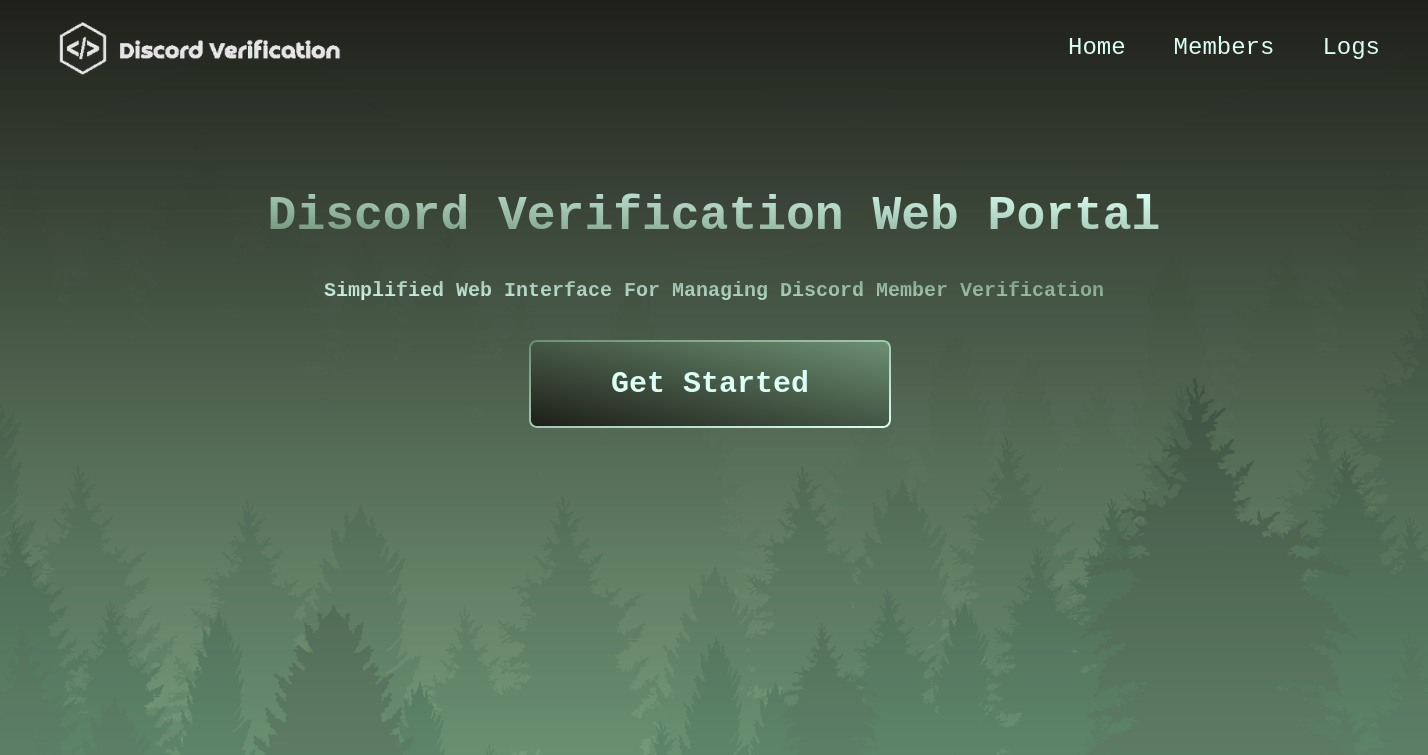
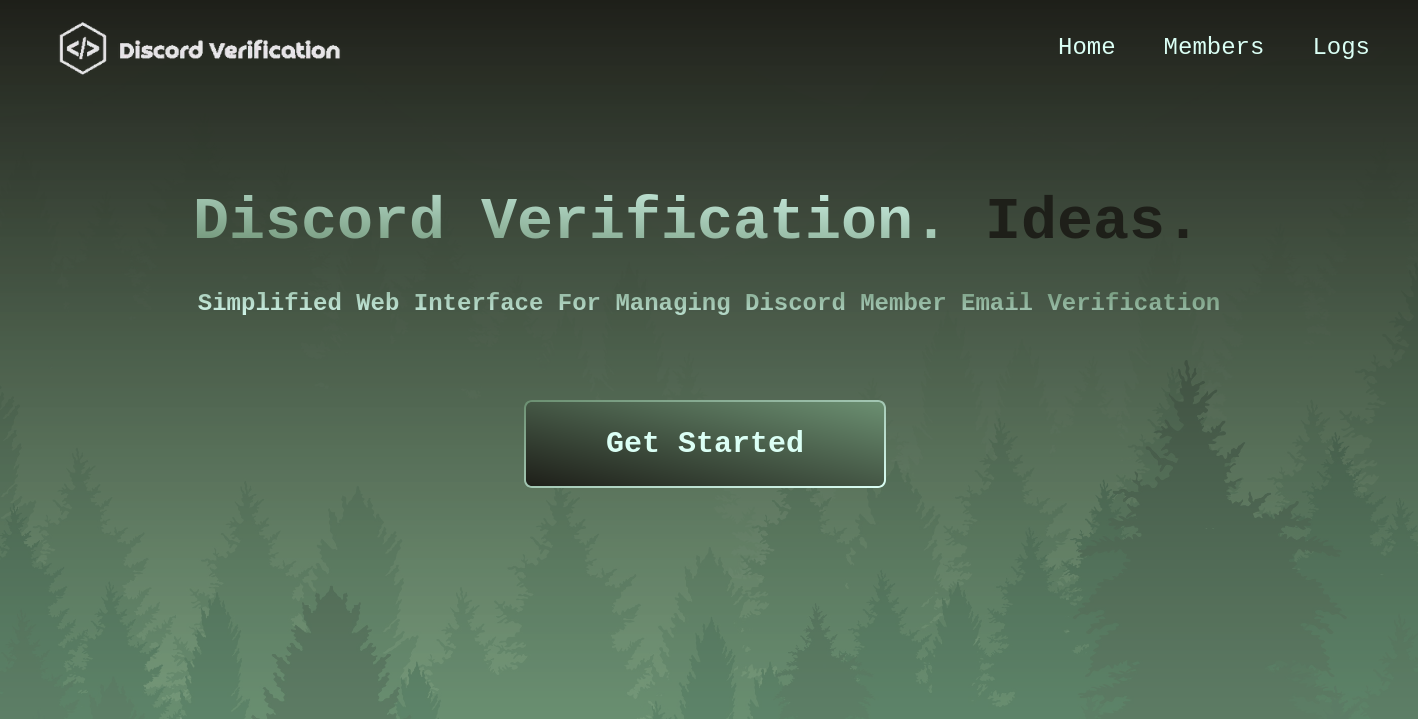
Resolved issue #13:  - Validated user signature input with regex  - Updated modal builder  - Updated verification.png

diff --git a/src/backend/listener.js b/src/backend/listener.js
@@ -113,16 +113,17 @@ client.on(Events.InteractionCreate, async (interaction) => {
             const emailInput = interaction.fields.getTextInputValue('email-input').trim();
             const signatureInput = interaction.fields.getTextInputValue('signature-input').trim();
 
-            // return if user input is invalid email
-            if (!util.validateEmail(emailInput)) {
-                logger.logger.info(`User ${interaction.user.username} has entered an invalid email: ${emailInput}.`);
+            // return if user input is invalid email/signature
+            if (!util.validateEmail(emailInput) || !util.validateSignature(signatureInput)) {
+                logger.logger.info(`User ${interaction.user.username} has entered an invalid email/signature: ${emailInput}, ${signatureInput}.`);
                 await interaction.followUp({
-                    content: 'Invalid email format, please try again.',
+                    content: 'Invalid email/signature format, please try again.',
                 });
                 return;
             }
 
-            // validate user input and parse domain
+            // validate user inputs and parse domain
+            const validatedSignature = util.validateSignature(signatureInput)[0];
             const validatedEmail = util.validateEmail(emailInput)[0];
             const domain = validatedEmail.split('@')[1];
 
@@ -140,7 +141,7 @@ client.on(Events.InteractionCreate, async (interaction) => {
                 // create user data object and insert it into users map
                 users.set(interaction.user.id, {
                     email: validatedEmail,
-                    signature: signatureInput,
+                    signature: validatedSignature,
                     verification: { 
                         code: await email.verifyEmail(validatedEmail),
                         attempts: 1,
@@ -159,7 +160,7 @@ client.on(Events.InteractionCreate, async (interaction) => {
 
             builder.EmailEmbed.setFields(
                 { name: 'Email', value: `${validatedEmail}` },
-                { name: 'Signature', value: `${signatureInput}` },
+                { name: 'Signature', value: `${validatedSignature}` },
             );
             
             await interaction.followUp({

diff --git a/src/backend/util.js b/src/backend/util.js
@@ -11,6 +11,14 @@ const validateEmail = (email) => {
         );
 };
 
+// validate signature with regex
+const validateSignature = (signature) => {
+    return String(signature)
+        .match(
+            /^([a-zA-Z]{2,}\s[a-zA-Z]{1,}'?-?[a-zA-Z]{2,}\s?([a-zA-Z]{1,})?)/
+        );
+}
+
 // update user data
 function updateUser(users, userId, code, time) {
     const userData = users.get(userId);
@@ -166,6 +174,7 @@ const getUserById = (user_id) => {
 
 module.exports = {
     validateEmail,
+    validateSignature,
     updateUser,
     readJSON,
     formatISODate,

diff --git a/src/backend/builder.js b/src/backend/builder.js
@@ -70,9 +70,9 @@ const InitialModal = new ModalBuilder()
     new ActionRowBuilder().addComponents(
         new TextInputBuilder()
             .setCustomId('email-input')
-            .setLabel('University Email')
+            .setLabel('Organization Email')
             .setStyle(TextInputStyle.Short)
-            .setPlaceholder('E.g. adalovelace@universitydomain.edu')
+            .setPlaceholder('E.g. adalovelace@organization.edu')
             .setRequired(true),
     ),
     new ActionRowBuilder().addComponents(
